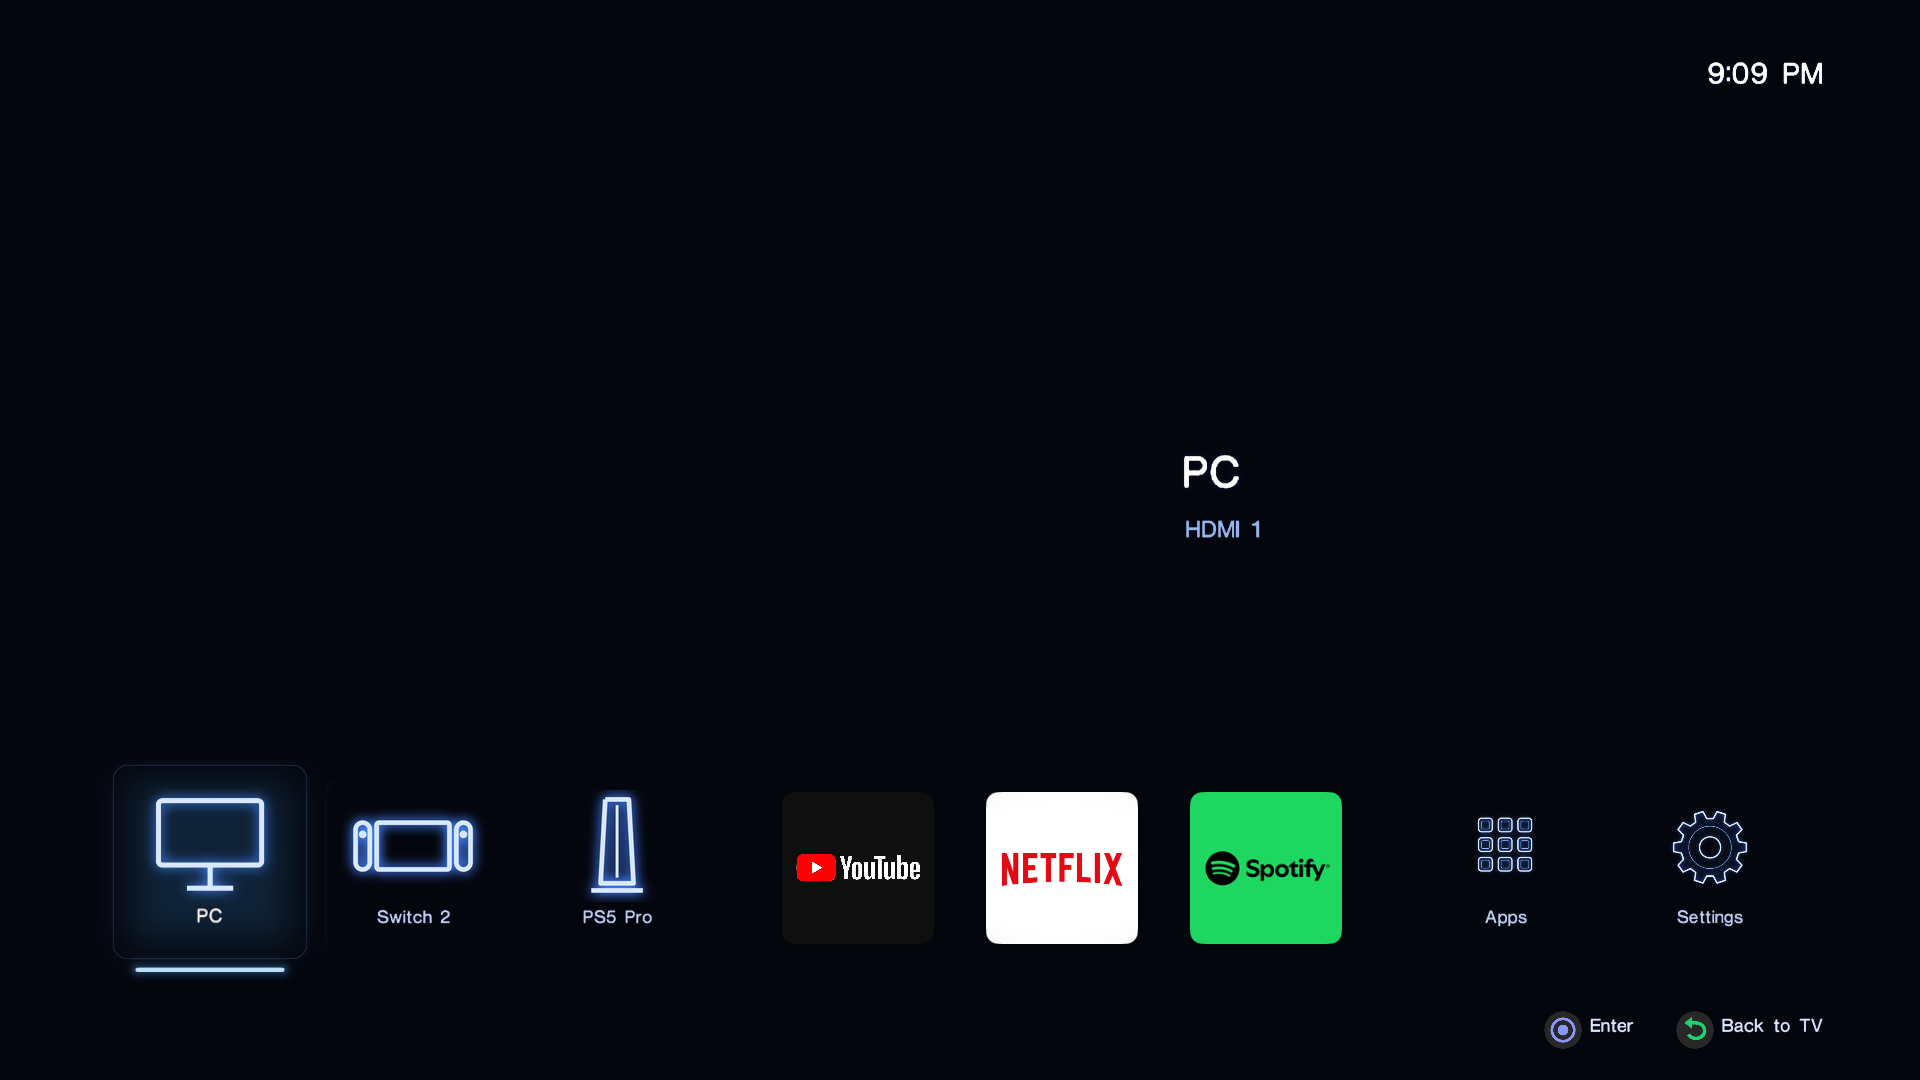
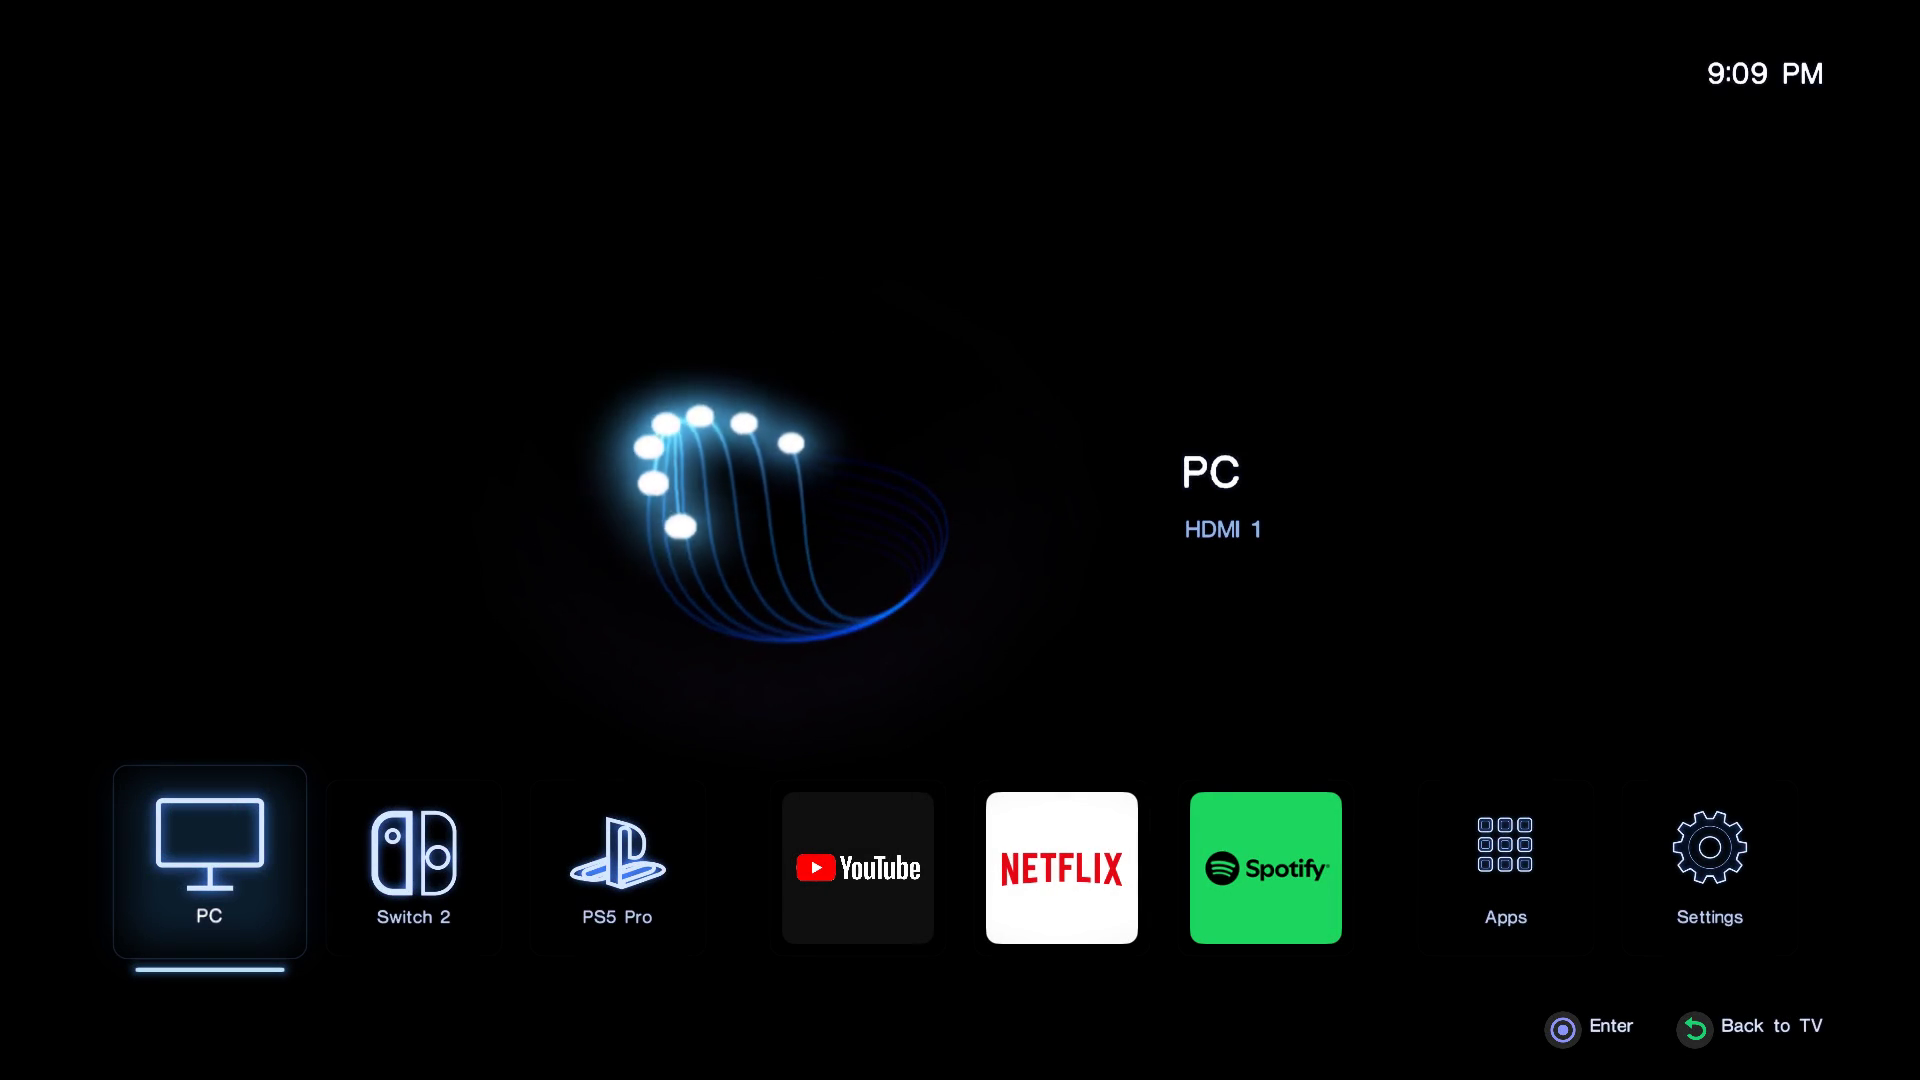
Use real on-TV screenshots for Home and Settings
Claude-Session: https://claude.ai/code/session_01EHmCk8MSCaEUeGDdteH6VB

diff --git a/docs/10-ps2-theme.md b/docs/10-ps2-theme.md
@@ -9,12 +9,9 @@ and the Settings-button bridge were checked by the owner. The full
 restart/standby/wake test is still to be reported.
 
 ![Home](images/ps2-home.png)
-![Home, second input focused](images/ps2-home-switch.png)
 ![Settings](images/ps2-settings.png)
 
-*Screens captured from the TV's graphics layer. The moving PS2 background video
-plays on the TV's video plane behind them, so it isn't in the captures. The
-console icons are this repository's generic placeholders.*
+*Home and Settings on the TV, with the moving PS2 background behind the UI.*
 
 ## What it does
 

diff --git a/README.md b/README.md
@@ -8,7 +8,7 @@
 > the font and sounds from your own BIOS dump, and record the videos yourself.
 > See **[docs/10-ps2-theme.md](docs/10-ps2-theme.md)**.
 >
-> ![PS2-style Quiet Home on the S90D](docs/images/ps2-home-switch.png)
+> ![PS2-style Quiet Home on the S90D](docs/images/ps2-home.png)
 >
 > Everything below is the upstream Quiet Tizen guide. It still applies to the
 > install, cleanup and recovery steps.
